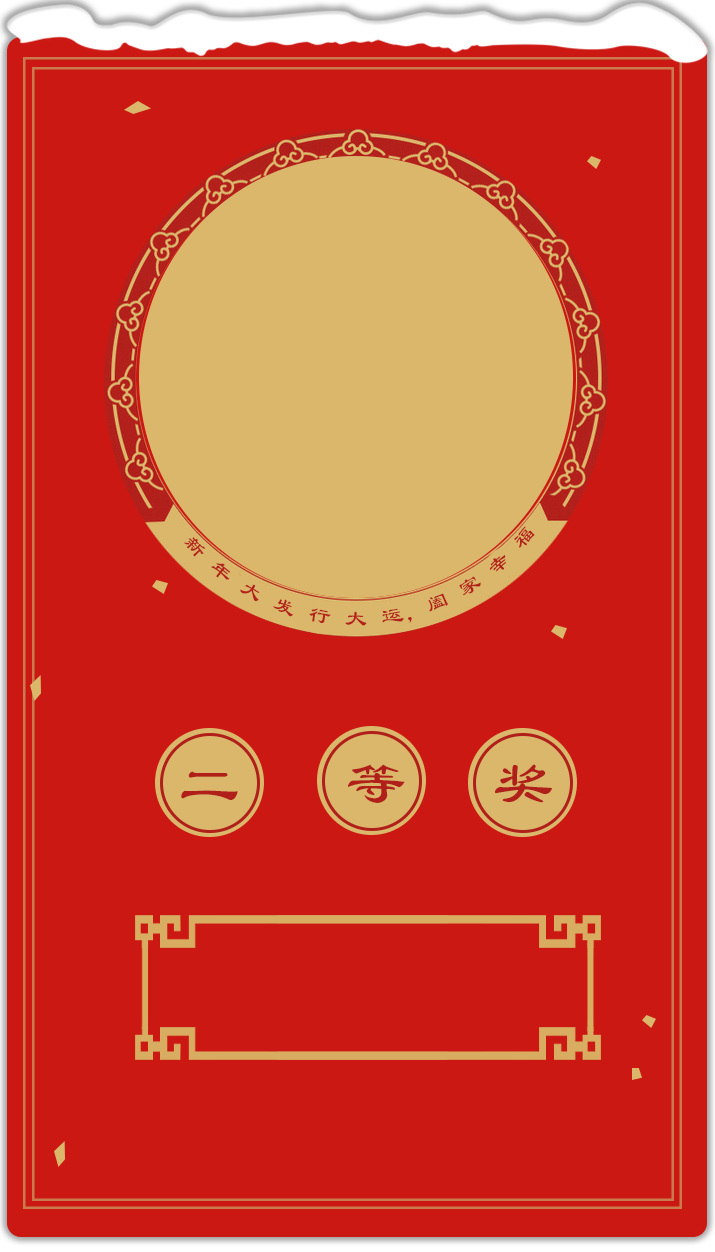
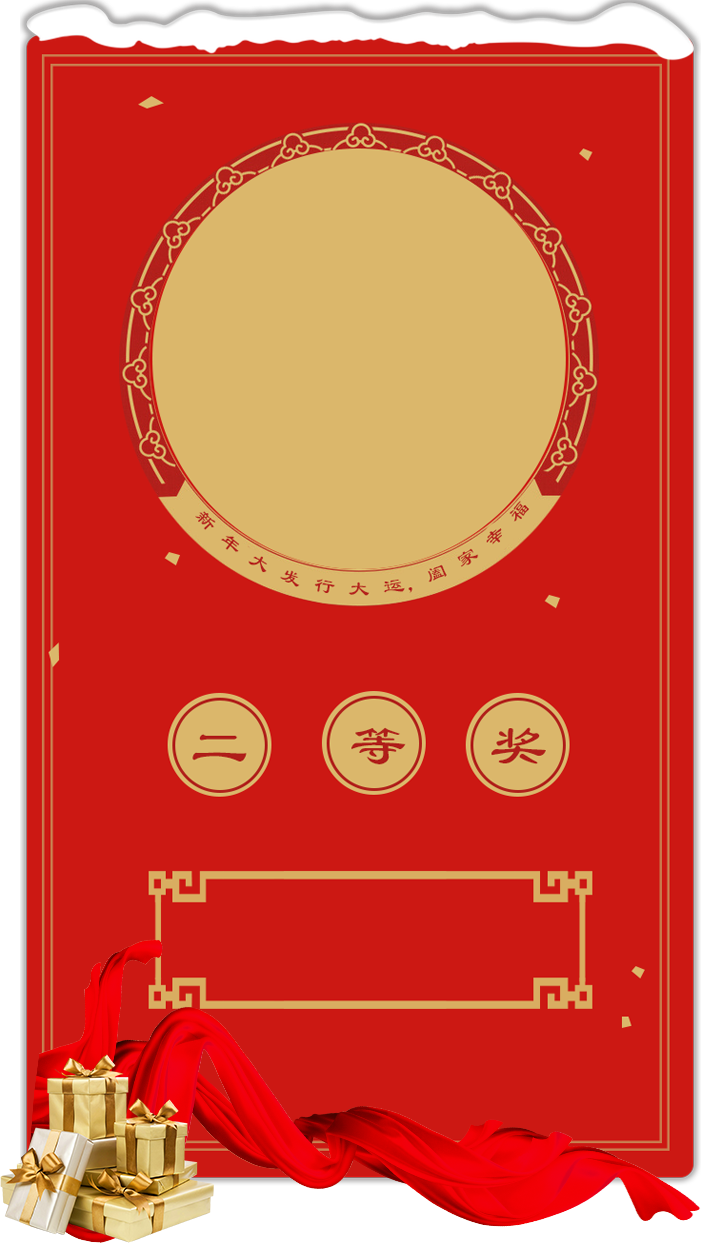
m

diff --git a/css/style.css b/css/style.css
@@ -68,7 +68,8 @@ html {
 body {
     height: 100%;
     /*background: #FFF7E3;*/
-    /* background: url("../img/yunwen.jpg") repeat; */
+    background: url("../img/bg1.png") repeat;
+    background-size: 100% 100%;
     /* background: url("../img/yunwen.jpg") repeat; */
     /*background: #fff;*/
     font-size: 1.5rem;
@@ -85,8 +86,8 @@ body {
 }
 
 .main {
-    width: 58%;
-    height: 100%;
+    width: 55%;
+    height: 90%;
     margin: 5rem auto 0 auto;
 }
 aside {
@@ -103,8 +104,8 @@ aside {
     display: none;
     width: 100%;
     height: 100%;
-    background: #fff;
-    padding-top: 4rem;
+    background:rgba(255,255,255,0.7);
+    padding-top: 2rem;
     box-shadow: 0 4px 8px #aaa;
 }
 aside.aside-left {
@@ -123,7 +124,7 @@ aside .switch {
     -o-animation: rotation 3s linear infinite;
 }
 .award-main {
-    margin-top: 1.5rem;
+    /* margin-top: 1.5rem; */
 }
 #award-01,#award-02,#award-03 {
     display: none;
@@ -171,12 +172,13 @@ aside .switch {
 .award-con .win .name {
     line-height: 4rem;
     margin-left: 2rem;
-    color: #2980B9;
+    color: rgba(250, 213, 7, 0.856);
     font-size: 2rem;
     font-family: 'STKaiti', 'KaiTi ';
 }
 #liwu-con .win .name {
     font-size: 1.5rem;
+    font-weight: bold;
 }
 .award-con .win .avatar img {
     width: 4rem;
@@ -231,7 +233,7 @@ aside .switch {
 }
 
 .lotterty-infogo {
-    margin: 3rem auto 0 auto;
+    margin: 8rem auto 0 auto;
     text-align: center
 }
 .lotterty-infogo h3 {
@@ -366,14 +368,14 @@ aside .switch {
 
 .lottery-list {
     position: relative;
-    margin: 0 auto 2rem auto;
+    margin: 0 auto 1rem auto;
     width: 100%;
 }
 .lottery-avatar {
-    height: 90px;
-    width: 90px;
+    height: 50px;
+    width: 50px;
     margin-left: 8rem;
-    margin-top: 1.5rem;
+    margin-top: 1rem;
     -webkit-border-radius: 90px;
     -moz-border-radius: 90px;
     border-radius: 90px;
@@ -385,15 +387,15 @@ aside .switch {
     box-shadow: 0 0 0 4px white, inset 0 0 0 1px rgba(254,54,31,0.2), 0 0 0 8px rgba(254,54,31,0.9);
 }
 .lottery-avatar img {
-    width: 90px;
-    height: 90px;
+    width: 50px;
+    height: 50px;
 }
 .lottery-content {
     position: relative;
     margin-left: 3rem;
     padding: 2rem;
     width: 65%;
-    height: 7rem;
+    height: 2rem;
     -webkit-transition: all .4s;
     -moz-transition: all .4s;
     transition: all .4s;
@@ -469,7 +471,7 @@ aside .switch {
     text-align: center;
 }
 .lottery-content .content-title .lottery-name {
-    font-size: 2rem;
+    font-size: 2.5rem;
     color: #2980b9;
     font-weight: bold;
     font-family: 'STKaiti', 'KaiTi ';
@@ -512,17 +514,17 @@ aside .switch {
     box-shadow: 0 6px #B92C1C;
 }
 .btn-red-outline {
-    width: 40%;
-    margin: 1.5rem auto 0 auto;
+    /* width: 40%;
+    margin: 1.5rem auto 0 auto; */
     cursor: pointer;
     color: #FD361F;
-    border: 3px solid #FD361F;
-    -webkit-box-shadow: 0 6px rgba(253, 54, 31, 0.5);
+    /* border: 3px solid #FD361F; */
+    /* -webkit-box-shadow: 0 6px rgba(253, 54, 31, 0.5);
     -moz-box-shadow: 0 6px rgba(253, 54, 31, 0.5);
-    box-shadow: 0 6px rgba(253, 54, 31, 0.5);
-    font-size: 2rem;
+    box-shadow: 0 6px rgba(253, 54, 31, 0.5); */
+    /* font-size: 2rem;
     font-weight: 600;
-    font-family: 'STKaiti', 'KaiTi ';
+    font-family: 'STKaiti', 'KaiTi '; */
 }
 .dashboard .lottery-btn {
     display: inline-block;
@@ -833,9 +835,6 @@ footer {
     height: 3rem;
     background: url("../img/clear.png") 0 0 no-repeat;
     background-size: contain;
-}
-.ddtitle{
-    margin-top: 30px !important;
 }
 @media (max-height: 800px) {
     .lottery-content{

diff --git a/index.html b/index.html
@@ -8,12 +8,14 @@
 </head>
 <body>
 <!-- 顶部中国风花纹 start -->
-<header class="top-head"></header>
+<!-- <header class="top-head"></header> -->
 
 <!--左侧中奖名单展示-->
 <aside class="aside-left">
     <div class="aside-main" id="mingdan-con">
-        <div class="btn btn-red-outline" data-toggle="modal" id="mingdan-title">中奖名单</div>
+        <div class="btn-red-outline" data-toggle="modal" id="mingdan-title">
+            <img src="./img/zj.png" style="width: 100%;">
+        </div>
         <div class="award-main">
             <div id="award-123">
                 <div class="award-con" id="award-01">
@@ -41,7 +43,10 @@
 <!--右侧奖品名单展示-->
 <aside class="aside-right">
     <div class="aside-main" id="liwu-con">
-        <div class="btn btn-red-outline" data-toggle="modal" id="liwu-title">新年礼物</div>
+        <div class="btn-red-outline" data-toggle="modal" id="liwu-title">
+            <!-- 新年礼物 -->
+            <img src="./img/cj.png" style="width: 100%;">
+        </div>
         <div class="award-main">
             <div class="award-con">
                 <h3 class="award-title">一等奖</h3>
@@ -183,7 +188,7 @@
 <canvas class="snow-canvas" speed="2" interaction="true" size="10" count="30" start-color="rgba(253,252,251,1)" end-color="rgba(251,252,253,0.3)" opacity="0.00001" wind-power="2" image="false" width="1366" height="667"></canvas>
 <canvas class="snow-canvas" speed="3" interaction="true" size="12" count="80" wind-power="-5" image="./img/snow.png" width="1366" height="667"></canvas>
 
-<footer class="footer"></footer>
+<!-- <footer class="footer"></footer> -->
 
 <!-- 新年祝福框模板 start -->
 <script type="text/template" id="lotterycon-tpl">
@@ -477,13 +482,13 @@
 //        $('#lottery-wrap').css('top', -stop_top);
 
         // 停止动画时要走的距离，即再走三个索引（即两个框+半个框的距离）
-        var left_distance = Math.floor(item_outer_height*2 + (item_outer_height - item_height));
+        var left_distance = Math.floor(item_outer_height*1 + (item_outer_height - item_height));
         var sure_index = stop_index + 4;
 
         // 移动到要到达的指定位置
         var lastStep = function() {
             time02 = nextFrame(function() {
-                top -= 8;
+                top -= 2;
                 moveDom.style.top = (-stop_top + top) + 'px';
                 if (-top <= left_distance) {
                     lastStep();
@@ -580,7 +585,7 @@
 //            isMove = true;
 //            lottery_btn.text('开始抽奖');
 //            lottery_btn.css('background', 'none');
-        }, 4200);
+        }, 2200);
 
     }
 
